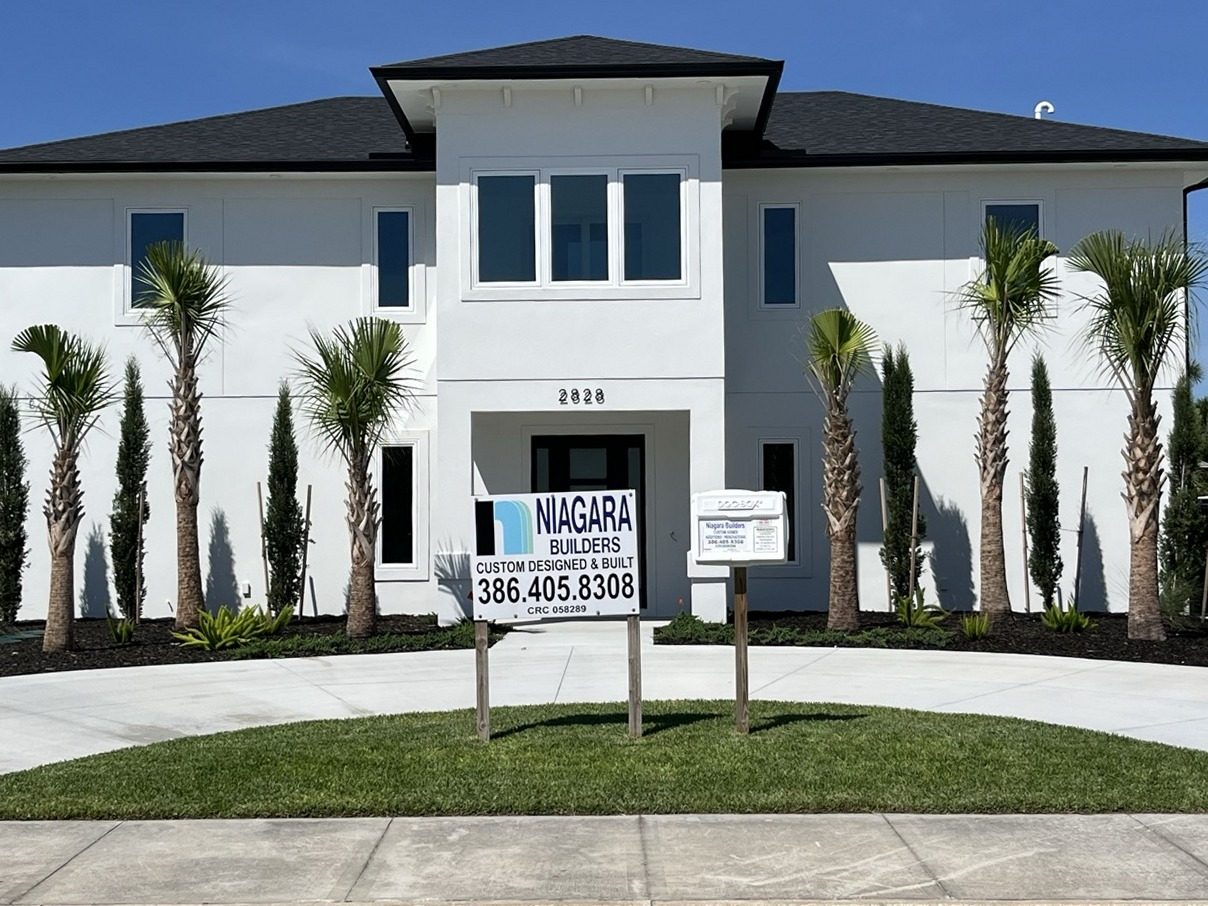
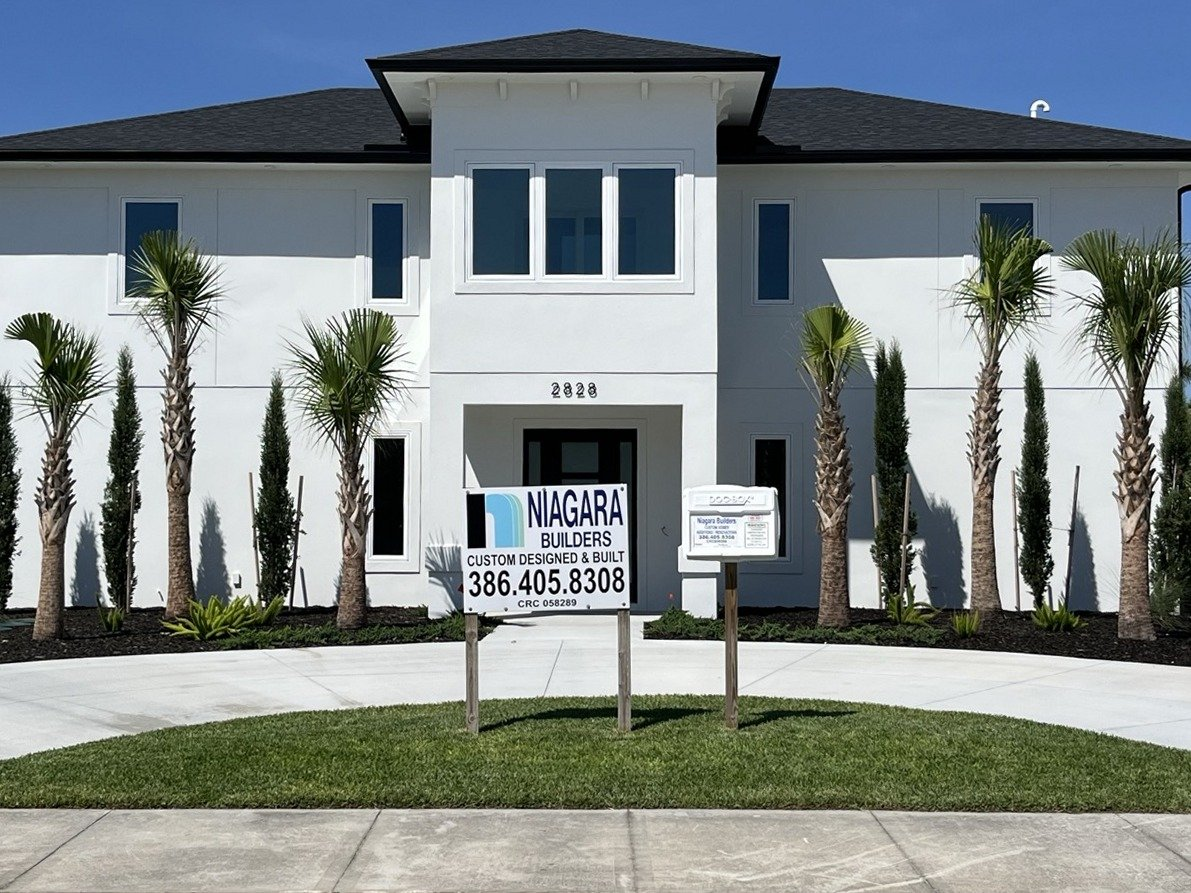
Further straighten hero image; make full 'Powered By NSD-Digital' phrase clickable

Changed region(s): [[0.0, 0.0302, 1.0, 1.0], [0.466, 0.4233, 0.4971, 0.4535]]

diff --git a/index.html b/index.html
@@ -390,10 +390,9 @@
     margin-top:20px; padding-top:20px; border-top:1px solid var(--line);
     display:flex; justify-content:center;
   }
-  footer.site .credit-text{font-size:.76rem; letter-spacing:.02em;}
   .credit-link{
-    color:var(--ink-soft); text-decoration:none; font-weight:600;
-    transition:color .15s;
+    font-size:.76rem; color:var(--ink-soft); text-decoration:none;
+    letter-spacing:.02em; transition:color .15s;
   }
   .credit-link:hover{color:var(--blue-deep); text-decoration:underline;}
 </style>
@@ -719,7 +718,7 @@
     </div>
   </div>
   <div class="wrap credit-row">
-    <p class="credit-text">Powered By <a class="credit-link" href="https://nsd-digital.com" target="_blank" rel="noopener">NSD-Digital</a></p>
+    <a class="credit-link" href="https://nsd-digital.com" target="_blank" rel="noopener">Powered By NSD-Digital</a>
   </div>
 </footer>
 
